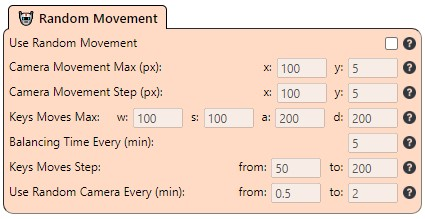
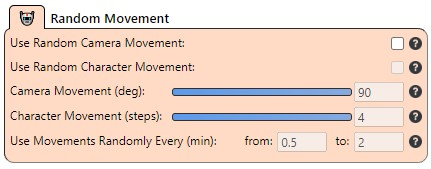
README update for 2.7.0

diff --git a/README.md b/README.md
@@ -12,8 +12,8 @@
 - [Disclaimer](#disclaimer-warning)
 - [Guide](#guide-blue_book)
   - [Hints and Issues](#hints-and-issues)
-- [Threshold](#threshold-red_circle)
-- [Fishing zone](#fishing-zone-dart)
+- [Intensity](#intensity-red_circle)
+- [Sensitivity](#sensitivity-red_circle)
 - [Applying Lures](#applying-lures-pushpin)
 - [Interactive key](#interactive-key)
 - [Soulbound items](#soulbound-items-auto-confirmation-large_blue_diamond)
@@ -22,13 +22,15 @@
 
 ## Fishing bot :fish:
 
-This is a fishing bot for wow-like fishing logic (when a model of a bobber has red/blue feather and plunging animation, for example it can work even with Minecraft). It is built using the [Electron](https://github.com/electron/electron), [keysender](https://github.com/Krombik/keysender) and [nut.js](https://github.com/nut-tree/nut.js) libraries to analyze the screen and automate the fishing process in a manner that mimics human behavior, and also [tesseract.js](https://github.com/naptha/tesseract.js) for loot filtering. This is a so-called "pixel bot": it works with pixels only, without modifying the game's memory or utilizing any AI vision libraries.
+This is a fishing bot for wow-like fishing logic (when a model of a bobber has red/blue feather and plunging animation, for example with some tweaks in the code it can work even with Minecraft). It is built using the [Electron](https://github.com/electron/electron), [keysender](https://github.com/Krombik/keysender) and [nut.js](https://github.com/nut-tree/nut.js) libraries to analyze the screen and automate the fishing process in a manner that mimics human behavior, and also [tesseract.js](https://github.com/naptha/tesseract.js) for loot filtering.
+
+This is a so-called "pixel bot": it works with pixels only, without modifying the game's memory or utilizing any AI vision libraries.
 
 <p align="center">
 <img src="guide_img/UI.jpg" width="640">
 </p>
 
-For more detailed review you can watch <img src="https://upload.wikimedia.org/wikipedia/commons/thumb/0/09/YouTube_full-color_icon_%282017%29.svg/1280px-YouTube_full-color_icon_%282017%29.svg.png" width="20"> [AutoFish 1.12](https://youtu.be/A3W8UuVIZTo)
+For video review you can watch this (pretty old) <img src="https://upload.wikimedia.org/wikipedia/commons/thumb/0/09/YouTube_full-color_icon_%282017%29.svg/1280px-YouTube_full-color_icon_%282017%29.svg.png" width="20"> [AutoFish 1.12](https://youtu.be/A3W8UuVIZTo)
 
 ## Disclaimer :warning:
 
@@ -42,77 +44,48 @@ For more detailed review you can watch <img src="https://upload.wikimedia.org/wi
 
 ## Guide :blue_book:
 
-1. Launch the game.
-2. Are you using **Filter** feature?
-   - Yes: Turn off **Auto Loot** in the game, set **UI scale** in the game to default, turn on **Open loot window at mouse** in the game.
-   - No: Turn on **Auto Loot** in the game.
-3. Assign your 'fishing' and 'lures' keys in the game and assign the same keys for the bot.
-4. Find a place to fish.
-5. Set up your **Fishing Zone** by clicking the **Set Fishing Zone** button. Adjust the size and position of the **Fishing Zone** window to exclude any reddish or bluish elements (depending on the switch you selected). Keep in mind that the **Fishing Zone** functions as an overlay, so it will also recognize colors from your character and the game's user interface, including texts and health bars.
+1. Launch the game and the bot.
+2. Choose the game you want the bot to work with.
+
+<p align="center">
+<img src="guide_img/chooseGame.jpg">
+</p>
+
+4. Set up your **Fishing Zone** by clicking the **Set Fishing Zone** button. Adjust the size and position of the **Fishing Zone** window to exclude any reddish or bluish elements (depending on the color you selected). Keep in mind that the **Fishing Zone** functions as an overlay, so it will also recognize colors from your character and the game's user interface, including texts and health bars.
+
+<p align="center">
+<img src="guide_img/chooseFishZone.jpg">
+</p>
+
 6. Press the Start button and don't use your mouse and keyboard.
 7. To stop the bot, press your designated stop key (default: delete).
 
-
 ### Hints and Issues
 
-- **Default UI only**: The bot has been exclusively tested with the default user interface (UI) and default UI scale, without any addons. Therefore, before using the bot, ensure that all addons are turned off and the UI scale is set to default. This is particularly important for fishing addons like Fishing Buddy and others. Disable any UI features they provide.
-- **Filter Language**: If you use Filter feature in different from English languages for the first time, wait until the bot downloads the data for your language.
-- **If doesn't press anything**: If the bot doesn't move/press/clicks your mouse, try to launch it as administrator.
-- **2 monitors**: The bot works properly only with 1 monitor, so if you use multiple monitors, launch the bot and the game on **the primary one**.
-- **Fishing Buddy**: you can set *Loot Window Closing Delay* value to 0 if use some special addons that hide loot window. You can also use FB to improve sound detection.
-- **Sound Detection** (Premium version): feature might not work with some audio devices, in that case you need to switch to another device (e.g. you are using headphones and sound detection doesn't work, then plug in speakers and test again).
+- If the bot misses too much, try to fish in 1st person view.
+- The bot works only with default UI: no UI scaling, no UI addons and so on.  
+- If the bot doesn't click/press, run it as admin.
+- The bot works only on primary monitor.
+- If you use an addon that removes loot window, you can set *Loot Window Closing Delay* value to 0 if use some special addons that hide loot window.
+- Different camera directions can affect the brightness, size, and visibility of the bobber.
+- You can Adjust gamma, brightness, and contrast settings to enhance the brightness of the bobber.
+- In very dark zones, consider using custom bobbers with distinctive red or blue colors instead of the default one.
+- The bot will auto-confirm Soulbound items.
 
-## Threshold :red_circle:
+## Intensity :red_circle:
 
-*Since 2.0.0 Threshold value is obsolete and available only in Manual mode*
+Intensity value serves as a color threshold below which the bot will ignore all the corresponding colors.
 
-The Threshold value represents an RGB value of a red or blue color, depending on the switch used. It serves as a color threshold below which the bot will ignore all corresponding colors.
+Increasing the intensity value will make the bot recognize fewer red colors, while decreasing this value will cause the bot to recognize more red colors on the screen.
 
-For instance, if the red switch is used and the threshold is set to 60, the bot will only recognize colors that are redder than this threshold value. This allows the bot to focus on the reddest parts of the screen, such as a red feather on the bobber.
+Simply put: decrease this value, if the bot can't find the bobber (e.g. at night, bad weather). Increase this value if you want the bot to ignore some reddish/bluish elements in the Fishing Zone and recognize only the bobber.`
 
-Increasing the threshold value will result in the bot recognizing fewer red colors, while decreasing the threshold value will cause the bot to recognize more red colors on the screen.
+## Sensitivity :red_circle:
 
-### Errors (Manual mode only)
-
-Are you encountering an error?
-
-> Yes, it says: *Found red/blue colors before casting. Change your Fishing Zone or increase the Threshold value or change the fishing place.*
-
-Adjust the position or size of your **Fishing Zone** to exclude any reddish or bluish elements. If you are certain there are none, you may need to increase the **Threshold** or switch to the other color.
-
-> No, but the bot recasts all the time and can't find the bobber. (as says in the log)
-
-It indicates that you may have set the **Threshold** value too high. Try decreasing it. If the error persists, there might be an issue with the size or position of your **Fishing Zone**.
-
-> No, but the bot clicks too early before fish is even hooked.
-
-There are a couple of solutions for this. First, try switching to the 1st person view. If that doesn't help, navigate to the **Advanced Settings** and adjust either the **Bobber Sensitivity** (disable the Auto adjust Sensitivity and Density option) or the **Bobber Density** (particularly if it's not Retail) values in the **Critical** section.
-
-> No, the bot finds the bobber (as says in the log) but it doesn't react to the bobber being hooked.
-
-Then you do the opposite to the previous issue: navigate to the **Advanced Settings** and decrease either the **Bobber Sensitivity** (particularly if it's Retail) or the **Bobber Density** (especially if it's not Retail) values in the **Critical** section. In the case of Vanilla (splash), you can decrease the Splash Color value."
-
-## Fishing Zone :dart:
-
-The Fishing Zone is an adjustable area in the water where your bobber may land. The bot specifically searches for the bobber within this designated area.
-
-The Fishing Zone is displayed as an overlay window, meaning that the bot will also recognize the colors of your character and user interface.
-
-To assist you in assessing the presence of red or blue colors within the Fishing Zone, there is a "Check" button. This feature relies on the Threshold value. If, upon pressing the Check button, the window turns red, close the window, gradually increase the Threshold value, and test again. Repeat this process until the window turns green.
-
-A general guideline to follow is that the better you can perceive the red or blue feather, the better the bot will be able to detect it as well. Consider the following tips:
-
-- Optimize your video settings to enhance visibility, excluding weather effects.
-- Disable weather effects to prevent the bot from confusing rain or fog with bobber movements. However, note that extremely harsh weather conditions, such as blizzards, may significantly reduce the bot's efficiency. In such cases, you can either find an alternative fishing spot, switch between blue and red feathers, or wait for better weather.
-- Keep in mind that different camera directions can affect the brightness, size, and visibility of the red feather on the bobber, subsequently impacting the bot's performance. While the specific location may not be critical, the direction and positioning are crucial.
-- Although camera position is not highly significant, in dark or snowy areas, a closer view of the bobber might improve visibility. Generally, a normal third-person view is ideal.
-- Adjust gamma, brightness, and contrast settings to enhance the brightness and vibrancy of the bobber.
-- In very dark zones, consider using alternative bobbers with distinctive red or blue colors instead of the default one.
-
-Watch <img src="https://upload.wikimedia.org/wikipedia/commons/thumb/0/09/YouTube_full-color_icon_%282017%29.svg/1280px-YouTube_full-color_icon_%282017%29.svg.png" width="20"> [AutoFish 1.12](https://youtu.be/A3W8UuVIZTo) for video explanation.
+If the bot clicks too early, decrease this value. If the bot clicks too late or doesn't click at all, increase this value.
 
 ## Applying Lures :pushpin:
-For **Retail** and **Classic/Vanilla** type of fishing you need to use a macro that will apply the lures onto your fishpole and **assign that macro to **Lures Key** option**:
+For **Retail** and **Classic/Vanilla** you need to use a macro that will apply the lures onto your fishpole and **assign that macro to **Lures Key** option**:
 
 **Retail**:
 
@@ -144,22 +117,17 @@ Or
 
 ## Interactive key
 
-You can use interactive key to catch your fish, if you want to use it with the bot, turn on Int. Key option and assign the same key you use for interactive key in the game.
+You can fish with interactive key in the game. If you want the bot to use it instead of mouse movement, turn on Int. Key option and assign the same key you use for interactive key in the game.
 
 <p align="center">
 <img src="guide_img/intkey.jpg" align="center">
 </p>
 
-To make the interactive key work, you use this commands (write them in the chat and press enter, one by one):
+To make the interactive key work, you should use this commands (write them in the chat and press enter, one by one):
 ```
 /console SoftTargetInteractArc 2  - This will allow you to interact with the bobber no matter which way you are facing.
 /console SoftTargetInteractRange 30  - This increases the interaction range to 30 yards. Adjust to your needs
 ```
-
-## Soulbound items auto-confirmation :large_blue_diamond:
-
-If the item requires confirmation on looting, the bot will confirm it automatically. **This won't work with AutoLoot turned on**, so if you need such items always use **Filter** feature.
-
 
 ## AutoFish Premium	:crown:
 
@@ -210,7 +178,7 @@ Watch <img src="https://upload.wikimedia.org/wikipedia/commons/thumb/0/09/YouTub
 
 *This feature is available only for [Premium version](https://www.buymeacoffee.com/jsbots/e/96734) of the app*
 
-The Multiple Windows feature enables you to fish simultaneously in multiple game windows, with support for up to 4 windows. The bot will switch between the game windows as needed for casting and catching fish. This feature enhances your fishing efficiency by allowing you to manage multiple fishing spots or engage in multi-character fishing.
+Multiple Fishing mode feature enables you to fish simultaneously in multiple game windows, with support for up to 4 windows. The bot will switch between the game windows as needed for casting and catching fish.
 
 Watch <img src="https://upload.wikimedia.org/wikipedia/commons/thumb/0/09/YouTube_full-color_icon_%282017%29.svg/1280px-YouTube_full-color_icon_%282017%29.svg.png" width="20"> [Multiple Windows Test Video](https://youtu.be/ih-xoQcByz8)
 
@@ -218,9 +186,7 @@ Watch <img src="https://upload.wikimedia.org/wikipedia/commons/thumb/0/09/YouTub
 
 *This feature is available only for [Premium version](https://www.buymeacoffee.com/jsbots/e/96734) of the app*
 
-To facilitate the use of the bot when you have a single monitor and cannot run it in the background or set up a virtual machine, the Alt-Tab Fishing mode is available. This mode enables the bot to focus on the game window only during the casting and fish-catching process. After that, it will automatically switch back to the previous window using the Alt + Tab keys.
-
-With Alt-Tab Fishing mode, you can engage in other activities such as watching videos, browsing the internet, or reading a book while the bot continues to monitor the bobber in the background. It's important to note that this mode requires DirectX11 (turned on in the game) for proper functionality.
+Alt-Tab Fishing Mode will simulate so-called "afk fishing": the bot will focus the window only when your character needs to cast, catch or perform any action and then it will lose focus and return you to the previous window by pressing alt-tab.
 
 Watch <img src="https://upload.wikimedia.org/wikipedia/commons/thumb/0/09/YouTube_full-color_icon_%282017%29.svg/1280px-YouTube_full-color_icon_%282017%29.svg.png" width="20"> [Alt-Tab Fishing Test Video](https://youtu.be/lQi6fSxMyL0)
 
@@ -288,7 +254,7 @@ Watch <img src="https://upload.wikimedia.org/wikipedia/commons/thumb/0/09/YouTub
 <img src="guide_img/rngMove.jpg" align="center">
 </p>
 
-The bot will randomly move and change your camera view from time to time within the given value. It will also balance itself every n minutes (default: 5) and return to the initial camera and character position.  
+The bot will randomly move and change your camera direction from time to time within the provided radius.
 
 Watch <img src="https://upload.wikimedia.org/wikipedia/commons/thumb/0/09/YouTube_full-color_icon_%282017%29.svg/1280px-YouTube_full-color_icon_%282017%29.svg.png" width="20"> [Random Camera/Character Movements Test Video](https://youtu.be/o1hU3fNn4uk)
 
@@ -318,14 +284,10 @@ Watch <img src="https://upload.wikimedia.org/wikipedia/commons/thumb/0/09/YouTub
 <a href="https://www.buymeacoffee.com/jsbots"><img src="https://img.buymeacoffee.com/button-api/?text=Buy me a coffee&emoji=&slug=jsbots&button_colour=FFDD00&font_colour=000000&font_family=Bree&outline_colour=000000&coffee_colour=ffffff" /></a>
 </p>
 
-AutoFish 2.4.0 Public: [Download](https://www.buymeacoffee.com/jsbots/e/95380)
+AutoFish 2.7.0 Public: [Download](https://www.buymeacoffee.com/jsbots/e/95380)
 
-AutoFish 2.6.0 Premium: [Download](https://www.buymeacoffee.com/jsbots/e/96734)
-
-The software is open-source, allowing you to clone the repository, review the code, and launch it directly from the command-line interface if you have concerns about downloading the executable file.
+AutoFish 2.9.0 Premium: [Download](https://www.buymeacoffee.com/jsbots/e/96734)
 
 If you choose to download the executable file, it functions as a setup file that installs the bot in the following directory: *c:/users/your_user/App Data/Local/random_folder/*. Additionally, a shortcut with a randomly generated name will be created on your desktop.
 
 If you wish to uninstall the bot, you can do so through the Windows Settings. The uninstaller will have the same name as the shortcut on your desktop.
-
-Please note that if you download a new setup file, it is necessary to uninstall the previous version of AutoFish before proceeding. The application and folder names are generated randomly during each installation, preventing automatic installation of a new version in the previous folder.
